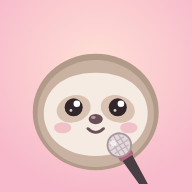
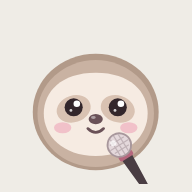
Neutral, professional default look
- New Neutral look: off-white, near-black buttons, one deep green accent, Inter headings
- Mood choices use simple line icons with a one-line hint instead of emoji
- Plain-text streak and earbuds note, calmer confetti, neutral app icon

Claude-Session: https://claude.ai/code/session_01LKmzNhmZ9jqgUGrJJbZSpb

diff --git a/lesson.html b/lesson.html
@@ -2,11 +2,11 @@
 <html lang="en">
 <head>
 <meta charset="utf-8">
-<script>try{document.documentElement.dataset.theme=localStorage.getItem("lentoTheme")||"studio"}catch(e){}</script>
+<script>try{document.documentElement.dataset.theme=localStorage.getItem("lentoTheme")||"neutral"}catch(e){}</script>
 <meta name="viewport" content="width=device-width, initial-scale=1, viewport-fit=cover">
 <meta name="apple-mobile-web-app-capable" content="yes">
 <meta name="apple-mobile-web-app-title" content="Lento">
-<meta name="theme-color" content="#fbf4ee">
+<meta name="theme-color" content="#f6f5f2">
 <title>Vocal lesson · Lento</title>
 <link rel="preconnect" href="https://fonts.googleapis.com">
 <link rel="preconnect" href="https://fonts.gstatic.com" crossorigin>
@@ -30,7 +30,7 @@
   .plan .sec { font-size: 11px; font-weight: 600; letter-spacing: .08em; text-transform: uppercase; color: var(--ink-3); width: 74px; flex: none; }
   .plan .row .title { font-size: 14.5px; }
   .plan .row a { color: var(--accent-ink); font-weight: 600; }
-  .themes { display: grid; grid-template-columns: repeat(5, 1fr); gap: 8px; padding: 6px 0 14px; }
+  .themes { display: grid; grid-template-columns: repeat(3, 1fr); gap: 8px; padding: 6px 0 14px; }
   .themes button { padding: 10px 4px; border-radius: 14px; border: 2px solid var(--line); font-size: 13px; font-weight: 600; display: flex; flex-direction: column; align-items: center; gap: 6px; }
   .themes button i { width: 34px; height: 22px; border-radius: 8px; }
   .themes button[aria-pressed="true"] { border-color: var(--accent); }
@@ -116,7 +116,7 @@
     <div><button class="linkish" id="showPlan">See today's plan</button><button class="linkish" id="shuffle">Mix it up</button></div>
     <div class="error" id="error"></div>
     <button class="btn accent big" id="go">Let's sing</button>
-    <span class="sub" style="font-size:12.5px;color:var(--ink-3)">🎧 Wired earbuds work best</span>
+    <span class="sub" style="font-size:12.5px;color:var(--ink-3)">Wired earbuds work best</span>
   </div>
   <div class="grow-space"></div>
 </main>
@@ -230,10 +230,16 @@
   const only = byId(new URLSearchParams(location.search).get("only"));
 
   // ---------- Check-in ----------
+  const MOOD_ICONS = {
+    tired: `<svg viewBox="0 0 24 24" fill="none" stroke="currentColor" stroke-width="1.8" stroke-linecap="round" stroke-linejoin="round"><path d="M20 14.5A8 8 0 1 1 9.5 4a6.5 6.5 0 0 0 10.5 10.5z"/></svg>`,
+    okay: `<svg viewBox="0 0 24 24" fill="none" stroke="currentColor" stroke-width="1.8" stroke-linecap="round"><circle cx="12" cy="12" r="4"/><path d="M12 3v2M12 19v2M3 12h2M19 12h2M5.6 5.6l1.4 1.4M17 17l1.4 1.4M5.6 18.4 7 17M17 7l1.4-1.4"/></svg>`,
+    great: `<svg viewBox="0 0 24 24" fill="none" stroke="currentColor" stroke-width="1.8" stroke-linejoin="round"><path d="M12 3l2 6.5L20.5 12 14 14.5 12 21l-2-6.5L3.5 12 10 9.5z"/></svg>`,
+  };
+
   // Step 1: tap how you feel, then Lento answers and shows the plan
   function renderMoods() {
     $("moods").innerHTML = Object.entries(MOODS).map(([id, m]) =>
-      `<button class="choice" data-mood="${id}"><span class="e">${m.emoji}</span>${m.label}</button>`).join("");
+      `<button class="choice" data-mood="${id}"><span class="ic">${MOOD_ICONS[id]}</span><span class="grow"><div>${m.label}</div><div class="hint-line">${m.hint}</div></span><span class="chev">›</span></button>`).join("");
     $("moods").querySelectorAll(".choice").forEach((b) => (b.onclick = () => {
       mood = b.dataset.mood;
       b.setAttribute("aria-pressed", "true");
@@ -693,7 +699,7 @@
   }
 
   function confetti() {
-    const colors = [css("--accent"), css("--ok"), css("--high"), css("--accent-ink"), "#fff"];
+    const colors = [css("--accent"), css("--ok"), css("--low"), css("--ink-3"), css("--line")];
     $("confetti").innerHTML = Array.from({ length: 70 }, () =>
       `<i style="left:${Math.random() * 100}%;background:${oneOf(colors)};animation-duration:${2.2 + Math.random() * 2}s;animation-delay:${Math.random() * .6}s"></i>`).join("");
     setTimeout(() => ($("confetti").innerHTML = ""), 5000);
@@ -775,7 +781,7 @@
   $("showSum").onclick = () => { $("sumList").hidden = false; $("showSum").hidden = true; };
 
   // The look of the app
-  const THEMES = { sunny: ["Sunny", "#fff8e1", "#ffad1f"], lemon: ["Lemon", "#fffbe8", "#ffd23f"], studio: ["Studio", "#fbf4ee", "#d9577a"], night: ["Night", "#151022", "#f2b45a"], forest: ["Forest", "#f3f1e4", "#3f8f63"] };
+  const THEMES = { neutral: ["Neutral", "#f6f5f2", "#18181b"], sunny: ["Sunny", "#fff8e1", "#ffad1f"], lemon: ["Lemon", "#fffbe8", "#ffd23f"], studio: ["Studio", "#fbf4ee", "#d9577a"], night: ["Night", "#151022", "#f2b45a"], forest: ["Forest", "#f3f1e4", "#3f8f63"] };
   function renderThemes() {
     const cur = document.documentElement.dataset.theme;
     $("themes").innerHTML = Object.entries(THEMES).map(([id, [name, bg, acc]]) =>

diff --git a/theme.css b/theme.css
@@ -195,6 +195,11 @@ a.row:active, button.row:active, a.card:active { transform: scale(.985); }
 .choices { width: 100%; display: flex; flex-direction: column; gap: 10px; }
 .choice { width: 100%; display: flex; align-items: center; gap: 14px; padding: 16px 18px; border-radius: 18px; background: var(--surface); border: 2px solid var(--line); font-size: 16px; font-weight: 600; text-align: left; box-shadow: var(--shadow); }
 .choice .e { font-size: 26px; }
+.choice .ic { width: 40px; height: 40px; border-radius: 12px; flex: none; display: grid; place-items: center; background: var(--accent-soft); color: var(--accent-ink); }
+.choice .ic svg { width: 20px; height: 20px; }
+.choice .grow { flex: 1; }
+.choice .hint-line { font-size: 13px; font-weight: 500; color: var(--ink-3); margin-top: 1px; }
+.choice .chev { color: var(--ink-3); font-size: 20px; }
 .choice[aria-pressed="true"] { border-color: var(--accent); background: var(--accent-soft); }
 .steps { width: 100%; display: flex; gap: 6px; }
 .steps i { flex: 1; height: 6px; border-radius: 3px; background: var(--line); transition: background .3s; }
@@ -254,3 +259,37 @@ a.row:active, button.row:active, a.card:active { transform: scale(.985); }
   --shadow: 0 3px 0 rgba(31, 27, 18, .05), 0 10px 26px rgba(214, 170, 0, .10);
   color-scheme: light;
 }
+
+/* Neutral: calm and professional. Off-white, near-black, one deep green accent, no glow */
+[data-theme="neutral"] {
+  --bg: #f6f5f2;
+  --bg-glow: linear-gradient(transparent, transparent);
+  --surface: #ffffff;
+  --surface-2: #fafaf8;
+  --ink: #18181b;
+  --ink-2: #52525b;
+  --ink-3: #9a9aa2;
+  --line: #e6e4df;
+  --accent: #2f6f5e;
+  --accent-ink: #2a6152;
+  --accent-soft: #e5efeb;
+  --ok: #2f855a;
+  --ok-soft: #e1f0e7;
+  --low: #c07a2c;
+  --low-soft: #f6ebdd;
+  --high: #c2453d;
+  --high-soft: #f6e0de;
+  --bar: rgba(255, 255, 255, .9);
+  --cta: #18181b;
+  --cta-ink: #ffffff;
+  --cta-shadow: 0 1px 2px rgba(0, 0, 0, .12);
+  --halo: radial-gradient(closest-side, rgba(47, 111, 94, .07), transparent);
+  --shadow: 0 1px 2px rgba(24, 24, 27, .04), 0 4px 16px rgba(24, 24, 27, .04);
+  --serif: "Inter", -apple-system, BlinkMacSystemFont, "Segoe UI", Roboto, sans-serif;
+  --radius: 16px;
+  color-scheme: light;
+}
+[data-theme="neutral"] h1, [data-theme="neutral"] .h1, [data-theme="neutral"] h2, [data-theme="neutral"] .h2 { font-weight: 600; letter-spacing: -.025em; }
+[data-theme="neutral"] .say { font-weight: 600; letter-spacing: -.01em; }
+[data-theme="neutral"] .btn { border-radius: 14px; }
+[data-theme="neutral"] .tabbar a.sing span { border-color: var(--bg); }

diff --git a/index.html b/index.html
@@ -2,11 +2,11 @@
 <html lang="en">
 <head>
 <meta charset="utf-8">
-<script>try{document.documentElement.dataset.theme=localStorage.getItem("lentoTheme")||"studio"}catch(e){}</script>
+<script>try{document.documentElement.dataset.theme=localStorage.getItem("lentoTheme")||"neutral"}catch(e){}</script>
 <meta name="viewport" content="width=device-width, initial-scale=1, viewport-fit=cover">
 <meta name="apple-mobile-web-app-capable" content="yes">
 <meta name="apple-mobile-web-app-title" content="Lento">
-<meta name="theme-color" content="#fbf4ee">
+<meta name="theme-color" content="#f6f5f2">
 <title>Lento · Vocal coach</title>
 <link rel="preconnect" href="https://fonts.googleapis.com">
 <link rel="preconnect" href="https://fonts.gstatic.com" crossorigin>
@@ -29,7 +29,7 @@
 <main class="scene">
   <div class="top">
     <span class="brand">Lento</span>
-    <span class="pill" id="streak">🔥 0</span>
+    <span class="pill" id="streak">0-day streak</span>
   </div>
   <div class="grow-space"></div>
   <div class="say fade-in" id="say">Good evening! Ready to sing?<small id="sub">Warm-up, scales, your song and a cooldown</small></div>
@@ -56,7 +56,7 @@
   const minutes = buildLesson({ song }).minutes;
   const today = s.count && new Date(JSON.parse(localStorage.getItem("lentoSessions") ?? "[]").at(-1)?.at).toDateString() === new Date().toDateString();
 
-  $("streak").textContent = `🔥 ${s.streak}`;
+  $("streak").textContent = `${s.streak}-day streak`;
   $("say").firstChild.textContent = today ? "You sang today! Want to go again?" : `${greeting()}! Ready to sing?`;
   $("sub").textContent = song ? `Warm-up, scales, ${song.title} and a cooldown` : "Warm-up, scales and a cooldown";
   $("meta").textContent = `About ${minutes} minutes${s.lastAccuracy !== null ? ` · last time ${s.lastAccuracy}% on pitch` : ""}`;

diff --git a/lesson.js b/lesson.js
@@ -8,11 +8,11 @@ import { sectionExercise } from "./song.js";
 export const SECTIONS = ["Warm-up", "Scales", "Song", "Cooldown"];
 
 export const MOODS = {
-  tired: { label: "A bit tired", emoji: "😴", line: "Let's go easy today. Lots of gentle warm-ups, nothing too high.",
+  tired: { label: "A bit tired", hint: "Gentle warm-ups, nothing too high", line: "Let's go easy today. Lots of gentle warm-ups, nothing too high.",
     warmups: 3, scales: 1, climb: -3, speed: 0.9, gentleOnly: true },
-  okay: { label: "Pretty good", emoji: "🙂", line: "Nice. A normal lesson today: warm up, some scales, then your song.",
+  okay: { label: "Pretty good", hint: "A full lesson", line: "Nice. A normal lesson today: warm up, some scales, then your song.",
     warmups: 2, scales: 2, climb: 0, speed: 1, maxPower: 1 },
-  great: { label: "Ready to sing", emoji: "✨", line: "Love that energy. We'll stretch your range a little and do some fast runs.",
+  great: { label: "Ready to sing", hint: "Wider range and fast runs", line: "Love that energy. We'll stretch your range a little and do some fast runs.",
     warmups: 2, scales: 2, climb: 2, speed: 1.05, minPower: 1 },
 };
 

diff --git a/song.html b/song.html
@@ -2,11 +2,11 @@
 <html lang="en">
 <head>
 <meta charset="utf-8">
-<script>try{document.documentElement.dataset.theme=localStorage.getItem("lentoTheme")||"studio"}catch(e){}</script>
+<script>try{document.documentElement.dataset.theme=localStorage.getItem("lentoTheme")||"neutral"}catch(e){}</script>
 <meta name="viewport" content="width=device-width, initial-scale=1, viewport-fit=cover">
 <meta name="apple-mobile-web-app-capable" content="yes">
 <meta name="apple-mobile-web-app-title" content="Lento">
-<meta name="theme-color" content="#fbf4ee">
+<meta name="theme-color" content="#f6f5f2">
 <title>Your song · Lento</title>
 <link rel="preconnect" href="https://fonts.googleapis.com">
 <link rel="preconnect" href="https://fonts.gstatic.com" crossorigin>

diff --git a/progress.html b/progress.html
@@ -2,11 +2,11 @@
 <html lang="en">
 <head>
 <meta charset="utf-8">
-<script>try{document.documentElement.dataset.theme=localStorage.getItem("lentoTheme")||"studio"}catch(e){}</script>
+<script>try{document.documentElement.dataset.theme=localStorage.getItem("lentoTheme")||"neutral"}catch(e){}</script>
 <meta name="viewport" content="width=device-width, initial-scale=1, viewport-fit=cover">
 <meta name="apple-mobile-web-app-capable" content="yes">
 <meta name="apple-mobile-web-app-title" content="Lento">
-<meta name="theme-color" content="#fbf4ee">
+<meta name="theme-color" content="#f6f5f2">
 <title>Progress · Lento</title>
 <link rel="preconnect" href="https://fonts.googleapis.com">
 <link rel="preconnect" href="https://fonts.gstatic.com" crossorigin>

diff --git a/tuner.html b/tuner.html
@@ -2,11 +2,11 @@
 <html lang="en">
 <head>
 <meta charset="utf-8">
-<script>try{document.documentElement.dataset.theme=localStorage.getItem("lentoTheme")||"studio"}catch(e){}</script>
+<script>try{document.documentElement.dataset.theme=localStorage.getItem("lentoTheme")||"neutral"}catch(e){}</script>
 <meta name="viewport" content="width=device-width, initial-scale=1, viewport-fit=cover">
 <meta name="apple-mobile-web-app-capable" content="yes">
 <meta name="apple-mobile-web-app-title" content="Lento">
-<meta name="theme-color" content="#fbf4ee">
+<meta name="theme-color" content="#f6f5f2">
 <title>Tuner · Lento</title>
 <link rel="preconnect" href="https://fonts.googleapis.com">
 <link rel="preconnect" href="https://fonts.gstatic.com" crossorigin>

diff --git a/welcome.html b/welcome.html
@@ -2,11 +2,11 @@
 <html lang="en">
 <head>
 <meta charset="utf-8">
-<script>try{document.documentElement.dataset.theme=localStorage.getItem("lentoTheme")||"studio"}catch(e){}</script>
+<script>try{document.documentElement.dataset.theme=localStorage.getItem("lentoTheme")||"neutral"}catch(e){}</script>
 <meta name="viewport" content="width=device-width, initial-scale=1, viewport-fit=cover">
 <meta name="apple-mobile-web-app-capable" content="yes">
 <meta name="apple-mobile-web-app-title" content="Lento">
-<meta name="theme-color" content="#fbf4ee">
+<meta name="theme-color" content="#f6f5f2">
 <title>Meet Lento</title>
 <link rel="preconnect" href="https://fonts.googleapis.com">
 <link rel="preconnect" href="https://fonts.gstatic.com" crossorigin>
